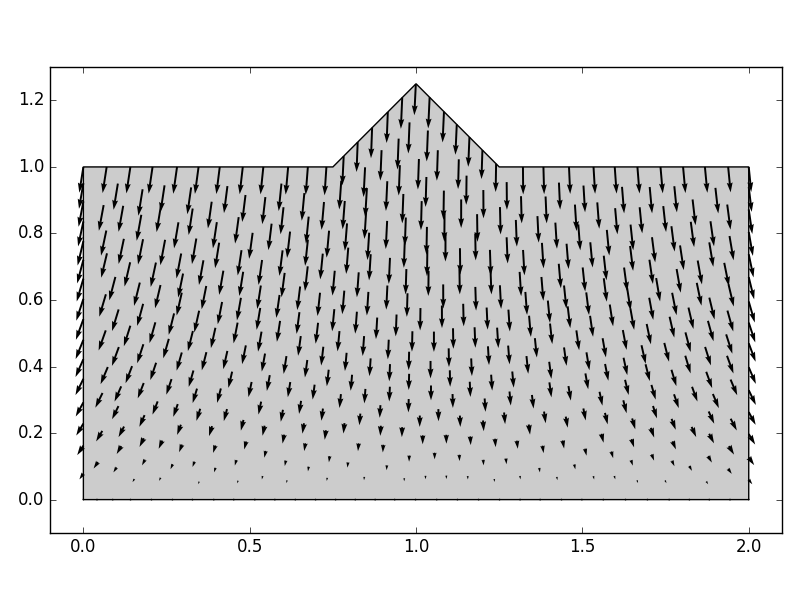
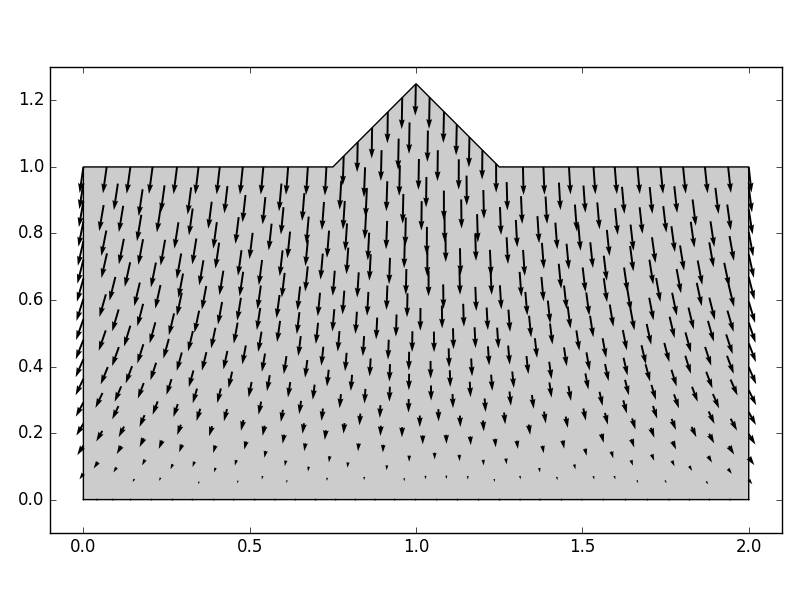
done for now

diff --git a/docs/scripts/fd.b.py b/docs/scripts/fd.b.py
@@ -30,7 +30,7 @@ smp = np.array([[0,1],[1,2],[2,3],
 # number of nodes 
 N = 500
 # size of RBF-FD stencils
-n = 20
+n = 50
 #####################################################################
 #####################################################################
 #####################################################################
@@ -179,7 +179,7 @@ poly = Polygon(vert,facecolor=(0.8,0.8,0.8),edgecolor='k',zorder=0)
 ax.add_artist(poly)
 # plot vector field solution
 nodes = nodes[:-g] 
-plt.quiver(nodes[:,0],nodes[:,1],u_x,u_y,zorder=1)
+plt.quiver(nodes[:,0],nodes[:,1],u_x,u_y,zorder=1,scale=5.0)
 ax.set_xlim((-0.1,2.1))
 ax.set_ylim((-0.1,1.3))
 ax.set_aspect('equal')
